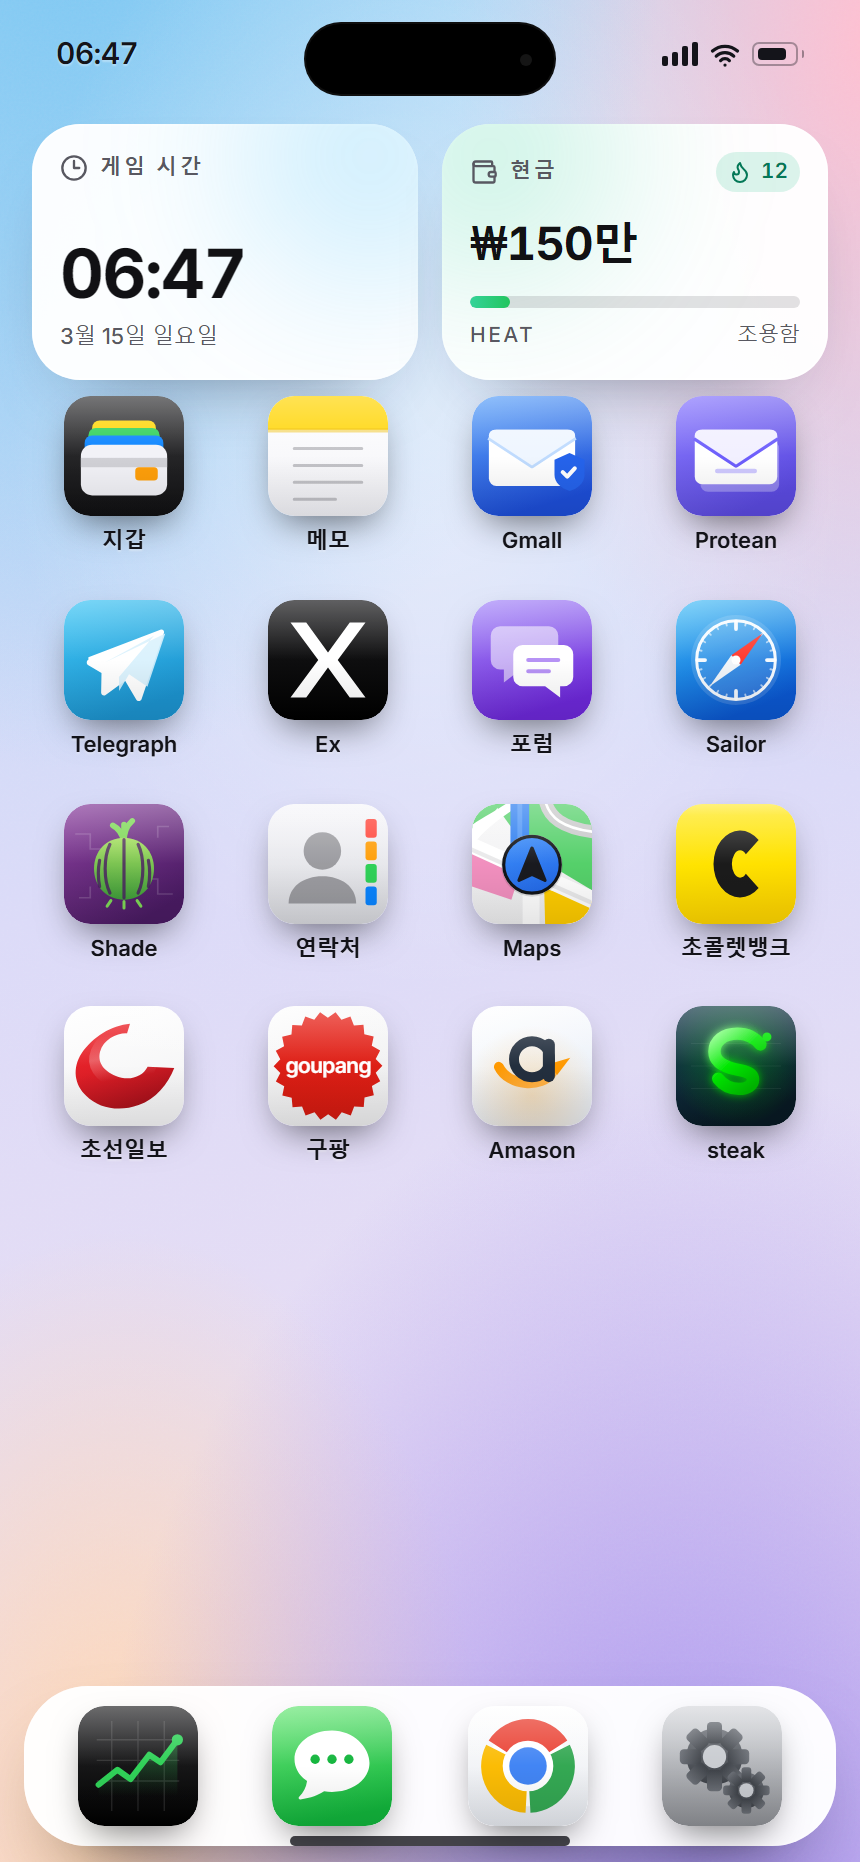
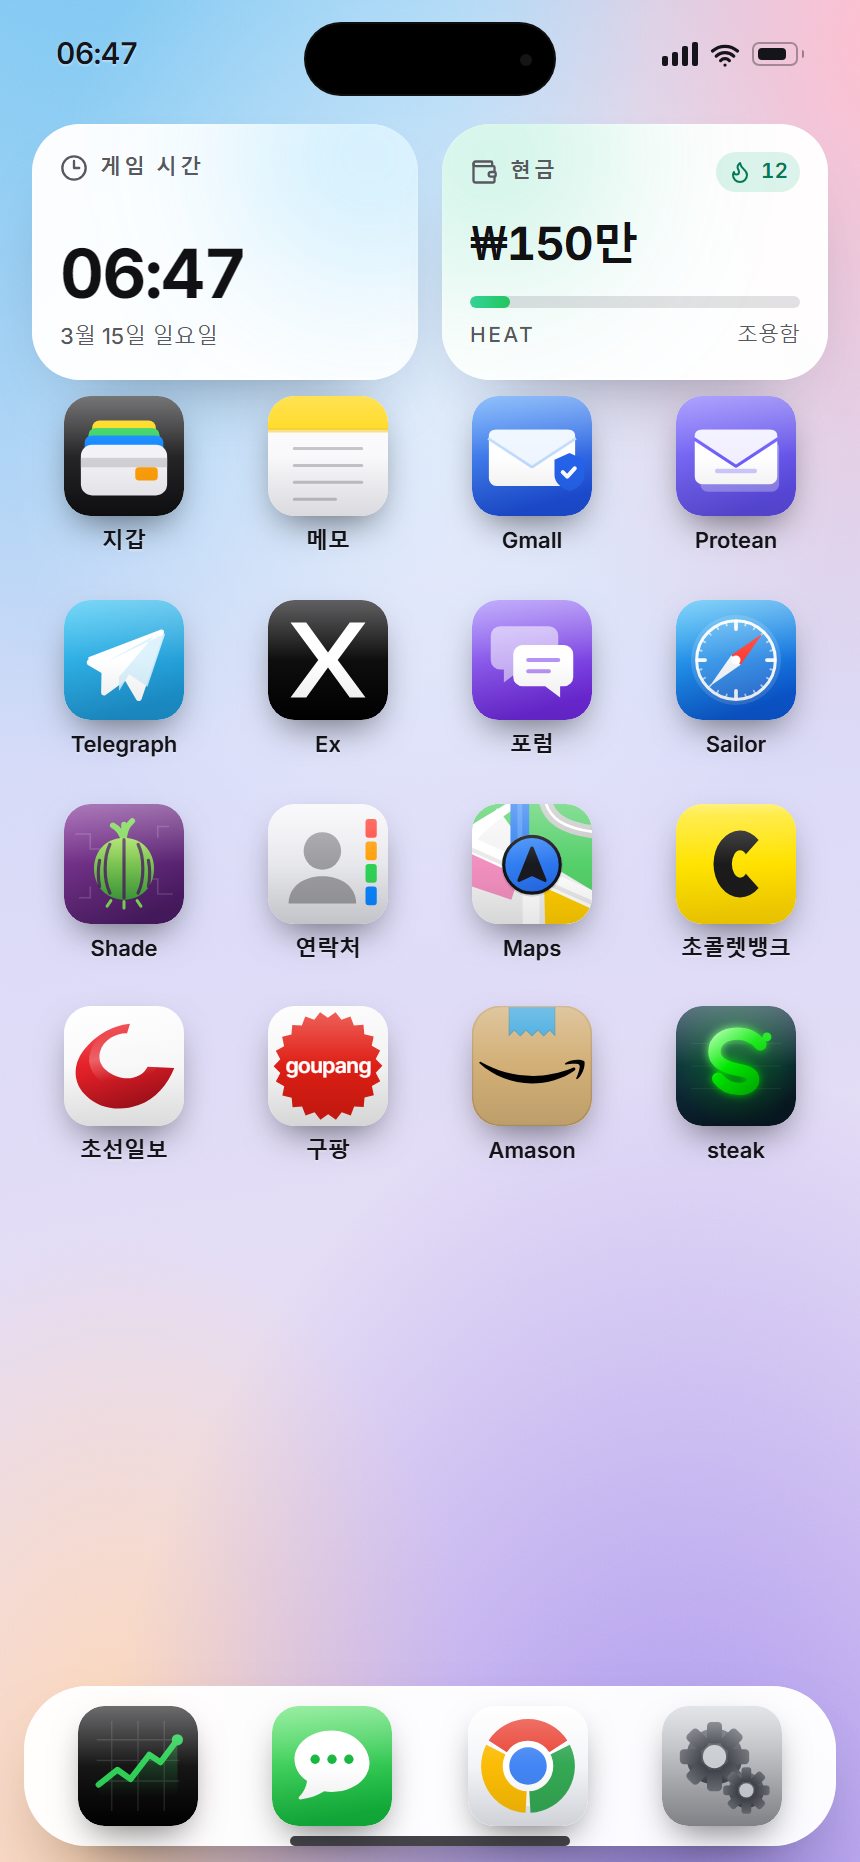
feat(os): use the supplied Amason tile, and give the home bar its press back
The storefront icon is now the parcel-and-smile artwork supplied for the
project, used as drawn: the 90x90 paths sit in their own viewBox and the
icon wrapper's squircle does the clipping. Its base rect is painted
full-bleed because the artwork's corner radius is slightly rounder than the
wrapper's, and without that the corners show a sliver of the wallpaper.

The home indicator squashes under the finger again (it had lost its spring
when the capsule was moved out of the translated wrapper for the difference
blend). It is driven from the hit target's `:active` through a sibling
selector, so no React state is involved, and the transform lives on the
capsule itself — verified against real pixels that the blend still inverts
while held: 140x5 -> 126x9.5 -> 140x5, bar stays dark over a light page.

Changed region(s): [[0.5442, 0.5295, 0.6953, 0.623]]

diff --git a/src/apps/icons.tsx b/src/apps/icons.tsx
@@ -680,52 +680,38 @@ export function MapIcon({ size = 24, className }: AppIconProps) {
 /* ------------------------------------------------------------------ */
 
 /**
- * Amason — the smile-arrow mark, redrawn by hand: a lowercase "a" bowl plus a
- * swoosh with an arrowhead. Same deal as the browsers above — own path data,
- * a parody name, and no brand file bundled.
+ * Amason — the artwork supplied for this project: a taped-up parcel with the
+ * smile-arrow on its face. The source file was a 90×90 mark inside a padded
+ * 256×256 box, so the paths are used as-is at their own size and the wrapper's
+ * squircle does the clipping.
+ *
+ * The base rect is painted full-bleed on purpose: the artwork's own corner
+ * radius is a touch rounder than the wrapper's, and without it the corners
+ * would show a sliver of whatever is behind the icon.
  */
 export function AmasonIcon({ size = 24, className }: AppIconProps) {
   return (
-    <svg viewBox="0 0 64 64" width={size} height={size} className={className} aria-hidden="true">
-      <defs>
-        <linearGradient id="amason-tile" x1="0" y1="0" x2="0.35" y2="1">
-          <stop offset="0" stopColor="#ffffff" />
-          <stop offset="1" stopColor="#e6edf7" />
-        </linearGradient>
-        <radialGradient id="amason-warm" cx="0.5" cy="0.74" r="0.58">
-          <stop offset="0" stopColor="#ff9900" stopOpacity="0.24" />
-          <stop offset="1" stopColor="#ff9900" stopOpacity="0" />
-        </radialGradient>
-        <linearGradient id="amason-smile" x1="0" y1="0" x2="1" y2="0.5">
-          <stop offset="0" stopColor="#ff9900" />
-          <stop offset="1" stopColor="#ffb043" />
-        </linearGradient>
-      </defs>
-      <rect width="64" height="64" rx="14" fill="url(#amason-tile)" />
-      <rect width="64" height="64" rx="14" fill="url(#amason-warm)" />
-
-      {/* Smile-arrow first, so the letter paints over it: the swoosh sweeps out
-          from under the "a" and the arrowhead rises behind the stem, the way
-          the reference mark reads. Slid back a hair so the ink balances on
-          both sides of the tile. */}
-      <g transform="translate(-1.5 0)">
-        <path
-          d="M15.8 32.4c5.2 10.6 23.2 11.8 28.6 3"
-          fill="none"
-          stroke="url(#amason-smile)"
-          strokeWidth="5.2"
-          strokeLinecap="round"
-        />
-        <path d="M53.9 27.6 46.9 36.8 42.2 31.1Z" fill="#ff9900" />
-      </g>
-
-      {/* Lowercase "a": ring bowl + full-height stem, nudged onto the tile's
-          centre line — without that the whole mark reads left-heavy, because
-          the swoosh only reaches out to the right. */}
-      <g transform="translate(4.4 0)">
-        <circle cx="27.6" cy="28.4" r="9.6" fill="none" stroke="#232f3e" strokeWidth="5.3" />
-        <rect x="33.4" y="17.4" width="6.4" height="23.2" rx="3.2" fill="#232f3e" />
-      </g>
+    <svg viewBox="0 0 90 90" width={size} height={size} className={className} aria-hidden="true">
+      <rect width="90" height="90" fill="#d2af76" />
+      {/* smile-arrow across the parcel's face */}
+      <path
+        d="M 76.92 48.315 c -8.644 6.384 -21.202 9.773 -32 9.773 c -15.133 0 -28.768 -5.596 -39.067 -14.897 c -0.814 -0.736 -0.079 -1.734 0.893 -1.156 c 11.14 6.463 24.88 10.378 39.094 10.378 c 9.589 0 20.125 -1.997 29.819 -6.095 C 77.104 45.661 78.339 47.264 76.92 48.315 z M 80.52 44.216 c -1.103 -1.419 -7.304 -0.683 -10.115 -0.342 c -0.841 0.105 -0.972 -0.631 -0.21 -1.182 c 4.939 -3.468 13.057 -2.47 14.003 -1.314 c 0.946 1.182 -0.263 9.3 -4.887 13.189 c -0.709 0.604 -1.392 0.289 -1.077 -0.499 C 79.285 51.468 81.623 45.609 80.52 44.216 z"
+        fill="#020101"
+      />
+      {/* blue packing tape across the top */}
+      <polygon
+        points="31.8,17.94 36.1,22.25 36.29,22.25 40.6,17.94 44.9,22.25 45.1,22.25 49.4,17.94 53.71,22.25 53.9,22.25 58.2,17.94 62.01,21.74 62.01,0 27.99,0 27.99,21.74"
+        fill="#38a5de"
+      />
+      <polygon
+        points="62.51,22.95 58.2,18.65 54.1,22.75 53.5,22.75 49.4,18.65 45.3,22.75 44.7,22.75 40.6,18.65 36.5,22.75 35.9,22.75 31.8,18.65 27.49,22.95 27.49,0 28.49,0 28.49,20.54 31.8,17.24 36.2,21.64 40.6,17.24 45,21.64 49.4,17.24 53.8,21.64 58.2,17.24 61.51,20.54 61.51,0 62.51,0"
+        fill="#4a95aa"
+      />
+      {/* 1px-ish inner border of the tile */}
+      <path
+        d="M 68.588 90 H 21.412 C 9.605 90 0 80.395 0 68.588 V 21.412 C 0 9.605 9.605 0 21.412 0 h 47.176 C 80.395 0 90 9.605 90 21.412 v 47.176 C 90 80.395 80.395 90 68.588 90 z M 21.412 0.989 c -11.261 0 -20.423 9.162 -20.423 20.423 v 47.176 c 0 11.262 9.162 20.423 20.423 20.423 h 47.176 c 11.262 0 20.423 -9.162 20.423 -20.423 V 21.412 c 0 -11.261 -9.162 -20.423 -20.423 -20.423 H 21.412 z"
+        fill="#bb9b6d"
+      />
     </svg>
   );
 }

diff --git a/src/styles/globals.css b/src/styles/globals.css
@@ -129,12 +129,27 @@
   .home-indicator {
     background-color: #fff;
     mix-blend-mode: difference;
+    /* Springy so the squish below bounces back like jelly. */
+    transition: transform 0.34s cubic-bezier(0.34, 1.56, 0.64, 1);
   }
   .home-indicator-ink {
     background-color: rgb(var(--os-chrome) / 0.8);
   }
   .home-indicator-ink[data-light] {
     background-color: rgb(255 255 255 / 0.85);
+  }
+
+  /*
+   * Press feedback. The real bar never moves, but this one is also the escape
+   * hatch, so it squashes under the finger and springs back — driven from the
+   * hit target's `:active` through the sibling selector, which keeps the
+   * capsule free of any React state. The hit target comes first in the DOM
+   * (`HomeIndicator.tsx`) purely so this selector can exist; it is transparent
+   * and the capsule is `pointer-events-none`, so taps still land on it.
+   */
+  .home-bar-hit:active + .home-indicator,
+  .home-bar-hit:active + .home-indicator-ink {
+    transform: scale(0.9, 1.9);
   }
 
   /* ---- materials ----------------------------------------------------- */

diff --git a/src/os/HomeIndicator.tsx b/src/os/HomeIndicator.tsx
@@ -39,6 +39,14 @@ export function HomeIndicator({ light = false }: { light?: boolean }) {
 
   return (
     <>
+      {/* The hit target comes *before* the capsule so the CSS sibling selector
+          can squash the capsule while the button is held (see globals.css). */}
+      <button
+        type="button"
+        aria-label="홈으로"
+        onClick={escape}
+        className="home-bar-hit absolute inset-x-0 bottom-0 z-50 mx-auto h-6 w-[180px]"
+      />
       <span
         data-home-indicator
         data-light={light ? '' : undefined}
@@ -47,12 +55,6 @@ export function HomeIndicator({ light = false }: { light?: boolean }) {
           'pointer-events-none absolute inset-x-0 bottom-2 z-50 mx-auto block h-[5px] w-[140px] rounded-full',
           blend ? 'home-indicator' : 'home-indicator-ink',
         )}
-      />
-      <button
-        type="button"
-        aria-label="홈으로"
-        onClick={escape}
-        className="absolute inset-x-0 bottom-0 z-50 mx-auto h-6 w-[180px]"
       />
     </>
   );

diff --git a/phase.md b/phase.md
@@ -565,6 +565,7 @@ create policy "own saves" on public.saves
 | 2026-10-26 | **Phase 5 완료**: 공급자 3인 + 스페셜 품목 3종(메신저 주문→창고 배송, 신뢰 조건), 러너 자동 판매(적발/heat), 보관 용량 60 + 압수 raid, 피싱 메일 3종(Gmail), **한 사람=한 스레드**(대화 이어짐), 목표 ₩2,500만, mockup 삭제(메신저/구팡/stub 앱) (총 204 tests) |
 | 2026-10-27 | **앱 전환기 클릭 수정**: "앱에서 클릭이 안먹힘"의 원인은 **앱 전환기의 카드가 탭에 반응하지 않던 것**(제스처 라이브러리의 `tap` 플래그가 오지 않음). 카드를 진짜 `<button onClick>`으로 바꿔 탭하면 앱이 열림. 카드가 `pointer-events-auto`로 비활성 레이어에서 클릭을 가로채던 것도 제거(가운데 256×392 영역이 투명하게 탭을 먹었음). 검증: 카드 탭→앱 열림, 배경 탭·홈 바→닫힘, 카드 쓸어올림→앱 종료, 전환기 사용 직후 앱 내부 클릭 정상 |
 | 2026-10-27 | **Phase 6 완료(튜토리얼)**: hello 인트로(6개 언어 → `안녕, {이름}`), 설정 마법사(이름·주 신원·기기 이름·알림/소리 → 바로 홈), 홈 전용 플레이 가이드 10단계(아이콘 하이라이트·자동 완료·수동 건너뛰기·완료 배너), 설정에서 다시 보기/끄기/켜기·기기 이름·주 신원·동의 편집. 상태는 `phone-os:tutorial`로 게임 세이브와 분리, **앱 잠금 없음**. 알림 동의는 잠금 화면/알림 센터/`pushNotification`에 실제 반영. 테스트 26개 추가(총 232), 스크린샷 10장 |
+| 2026-10-30 | **Amason 아이콘·홈 바 반동**: Amason 타일을 프로젝트에 전달된 포장 상자+스마일 아트워크로 교체(90×90 원본 경로 그대로, 모서리는 래퍼 스퀴클로 클립). 홈 인디케이터에 **누르면 쫀득하게 눌렸다 돌아오는 반동**(`:active` 형제 선택자 + 스프링 이징, `scale(0.9, 1.9)`)을 복구 — 캡슐 자체의 transform은 `difference` 블렌드를 깨지 않는 것을 실제 픽셀로 확인(140×5 → 126×9.5 → 140×5) |
 | 2026-10-30 | **Amason 앱 추가**: 미국 쇼핑 앱(영어 전용, 달러 가격 + 원화 병기). 네이비 브랜드 바·검색·카테고리·특가 레일·2열 그리드·상세(Add to Cart/Buy Now)·장바구니·주문 내역(게임 시계로 배송 단계 진행). 품목은 `content/amason.ts` 배열에 한 줄, 이미지는 **URL만**(비면 그림 타일로 대체). 결제는 게임 현금 차감, 거래 루프와 분리. 아이콘은 실제 마크를 참고해 직접 그린 패러디. 홈 그리드 배치 + OS 스키마 v11 마이그레이션(기존 세이브에 누락 앱 채움). 테스트 30개 추가(총 272) |
 | 2026-10-29 | **가이드 단계 정리**: 사용자 요청으로 **초선일보(뉴스)·구팡 수령·포럼 주소·Maps 만남** 안내 4단계 제거 → 10단계에서 **6단계**(매입→도매→응대→판매→은행→마감). 앱 자체는 그대로, `TutorialMetric`도 실제 쓰는 수치(택배·답장·판매·은행 거래·일차)만 남김. 테스트 242개 유지 |
 | 2026-10-29 | **홈 바·가이드 수정**: (1) 하단 스와이프 바가 안 보이던 두 원인 — 오래된 개발 서버가 `bg-chrome` 없는 CSS를 물고 있었고(재시작), 라이트 모드에서 항상 어두운 앱(steak·Shade) 위에서 테마 잉크가 묻혔다. 상태바는 앱별 `alwaysDark` 플래그, 홈 바는 앱 위에서 배경을 뒤집는 `difference` 블렌드 + OS 표면에서는 테마 잉크. 블렌드는 캡슐이 OS 박스의 직계 자식일 때만 동작(래퍼의 transform·z-index가 백드롭 루트가 됨). (2) 가이드 카드가 안내 아이콘을 가리던 문제 — 스포트라이트(대상만 남기고 어둡게 + 화살표), 카드 높이를 재서 아이콘 반대편 배치(10단계 전부 겹침 0), 10칸 세그먼트 진행, 첫 실행 자동 펼침, 완료 화면 정리. 검증: 242 tests(가이드 +3, chrome 테스트 6개 신설), 실제 픽셀 대비 확인 |

diff --git a/ATTRIBUTIONS.md b/ATTRIBUTIONS.md
@@ -21,11 +21,15 @@ except for npm packages listed in `package.json`, which keep their own licenses.
 
 Every app, shop and brand in the game is fictional. Where an icon nods at a
 real service (the tri-colour ring, the compass, the onion, the storefront's
-smile-arrow), it is redrawn from scratch in `src/apps/icons.tsx` with a parody
-name, own path data and altered geometry. Colours were read from public brand
-guidelines (for example Amazon Orange `#FF9900` and Squid Ink `#232F3E`); no
-logo files, wordmarks or product photos are bundled. Product art is drawn in
-code, and a listing may point at its own image URL.
+smile-arrow), it is redrawn in `src/apps/icons.tsx` with a parody name, own
+path data and altered geometry. Colours were read from public brand
+guidelines (for example Amazon Orange `#FF9900` and Squid Ink `#232F3E`).
+
+One exception, and it is deliberate: the Amason tile
+(`AmasonIcon`) is the parcel-and-smile artwork supplied for this project by the
+project owner, used as drawn. No logo files, wordmarks or product photos are
+bundled elsewhere. Product art is drawn in code, and a listing may point at its
+own image URL.
 
 ## Reference repositories (structure / metrics only)
 
